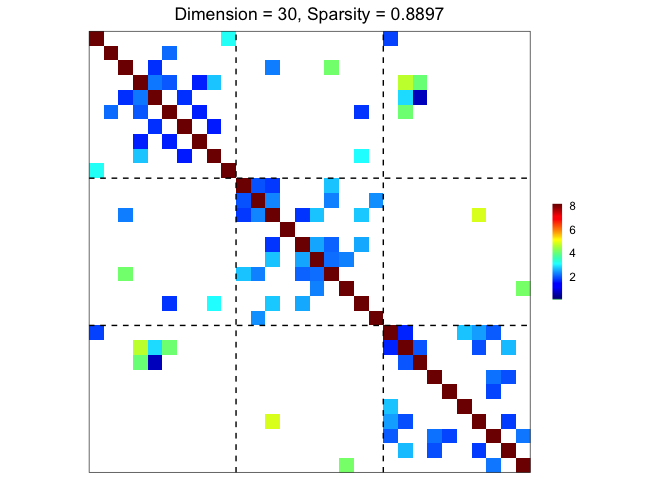
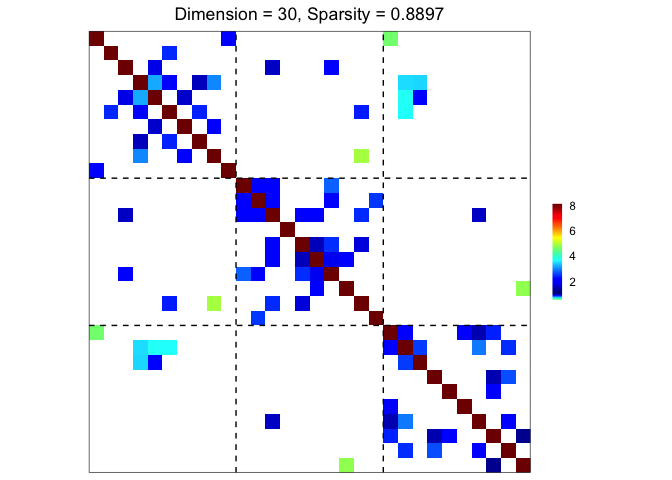
fix: respect diag.include in within-group LLA weights for v0.1.3

diff --git a/src/update_.cpp b/src/update_.cpp
@@ -41,6 +41,9 @@ arma::mat update_Zblock(const arma::mat& M, const std::string& penalty,
       // get subview for in-place update
       auto Z_block = Z.submat(row_idx, col_idx);
       arma::mat Initial_block = Initial.submat(row_idx, col_idx);
+      if (g == h && !diag_include) {
+        Initial_block.diag().zeros();
+      }
       double lambda_grp = lambda_group(Initial_block, penalty, lambda, gamma);
       if (g != h) {
         double block_norm = arma::norm(Z_block, "fro");

diff --git a/README.md b/README.md
@@ -15,22 +15,14 @@ The goal of **grasps** is to provide a collection of statistical methods that
 incorporate both element-wise and group-wise penalties to estimate a precision
 matrix, making them user-friendly and useful for researchers and practitioners.
 
-$$
-\hat{\Omega}(\lambda,\alpha,\gamma) = {\arg\min}_{\Omega \succ 0}
-\{ -\log\det(\Omega) + \text{tr}(S\Omega) + \mathcal{P}_{\lambda,\alpha,\gamma}(\Omega) \},
-$$
-$$
-\mathcal{P}_{\lambda,\alpha,\gamma}(\Omega)
-= \alpha \mathcal{P}^\text{idv}_{\lambda,\gamma}(\Omega) + (1-\alpha) \mathcal{P}^\text{grp}_{\lambda,\gamma}(\Omega),
-$$
-$$
-\mathcal{P}^\text{idv}_{\lambda,\gamma}(\Omega)
-= \sum_{i,j} P_{\lambda,\gamma}(\lvert\omega_{ij}\rvert),
-$$
-$$
-\mathcal{P}^\text{grp}_{\lambda,\gamma}(\Omega)
-= \sum_{g,g^\prime} P_{\lambda,\gamma}(\lVert\Omega_{gg^\prime}\rVert_F).
-$$
+$$\hat{\Omega}(\lambda,\alpha,\gamma) = {\arg\min}_{\Omega \succ 0}
+\{ -\log\det(\Omega) + \text{tr}(S\Omega) + \mathcal{P}_{\lambda,\alpha,\gamma}(\Omega) \},$$
+$$\mathcal{P}_{\lambda,\alpha,\gamma}(\Omega)
+= \alpha \mathcal{P}^\text{idv}_{\lambda,\gamma}(\Omega) + (1-\alpha) \mathcal{P}^\text{grp}_{\lambda,\gamma}(\Omega),$$
+$$\mathcal{P}^\text{idv}_{\lambda,\gamma}(\Omega)
+= \sum_{i,j} P_{\lambda,\gamma}(\lvert\omega_{ij}\rvert),$$
+$$\mathcal{P}^\text{grp}_{\lambda,\gamma}(\Omega)
+= \sum_{g,g^\prime} P_{\lambda,\gamma}(\lVert\Omega_{gg^\prime}\rVert_F).$$
 
 For more details, see the vignette
 [Penalized Precision Matrix Estimation in grasps](https://shiying-xiao.com/grasps/articles/pen_est#sparse-group-estimator).
@@ -115,19 +107,19 @@ plot(prec)
 ## performance
 performance(hatOmega = prec$hatOmega, Omega = sim$Omega)
 #>      measure    value
-#> 1   sparsity   0.8805
-#> 2  Frobenius  23.9013
-#> 3         KL   7.6775
-#> 4  quadratic  69.1639
-#> 5   spectral  12.3571
-#> 6         TP  23.0000
-#> 7         TN 358.0000
-#> 8         FP  29.0000
-#> 9         FN  25.0000
-#> 10       TPR   0.4792
-#> 11       FPR   0.0749
-#> 12        F1   0.4600
-#> 13       MCC   0.3904
+#> 1   sparsity   0.8414
+#> 2  Frobenius  24.9542
+#> 3         KL   8.5650
+#> 4  quadratic 116.1826
+#> 5   spectral  12.8341
+#> 6         TP  21.0000
+#> 7         TN 339.0000
+#> 8         FP  48.0000
+#> 9         FN  27.0000
+#> 10       TPR   0.4375
+#> 11       FPR   0.1240
+#> 12        F1   0.3590
+#> 13       MCC   0.2688
 
 ## adjacency matrix: diagonal = 0; raw partial correlations;
 ##                   no thresholding; weighted network
